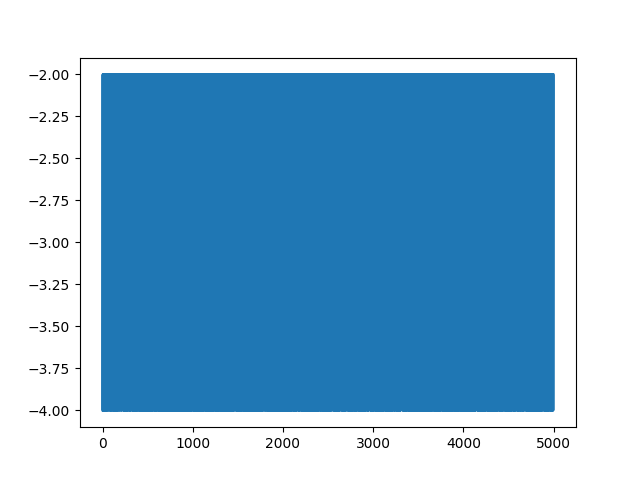
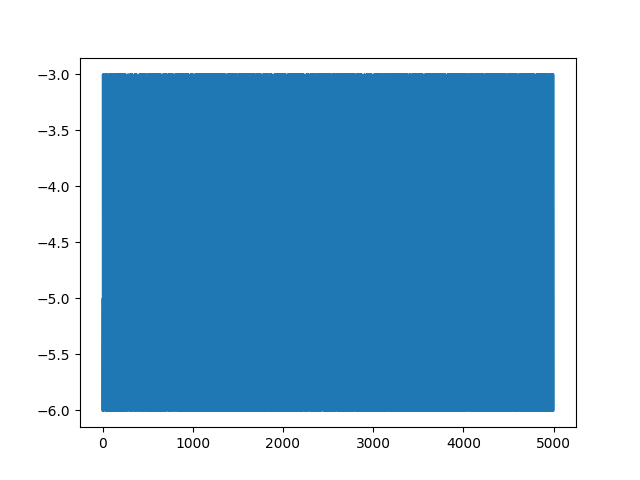
trained again, using 2x3 board

diff --git a/constants.py b/constants.py
@@ -1,5 +1,5 @@
 
-COURSE_LENGTH_Y = 1
+COURSE_LENGTH_Y = 2
 COURSE_LENGTH_X = 3
 
 
